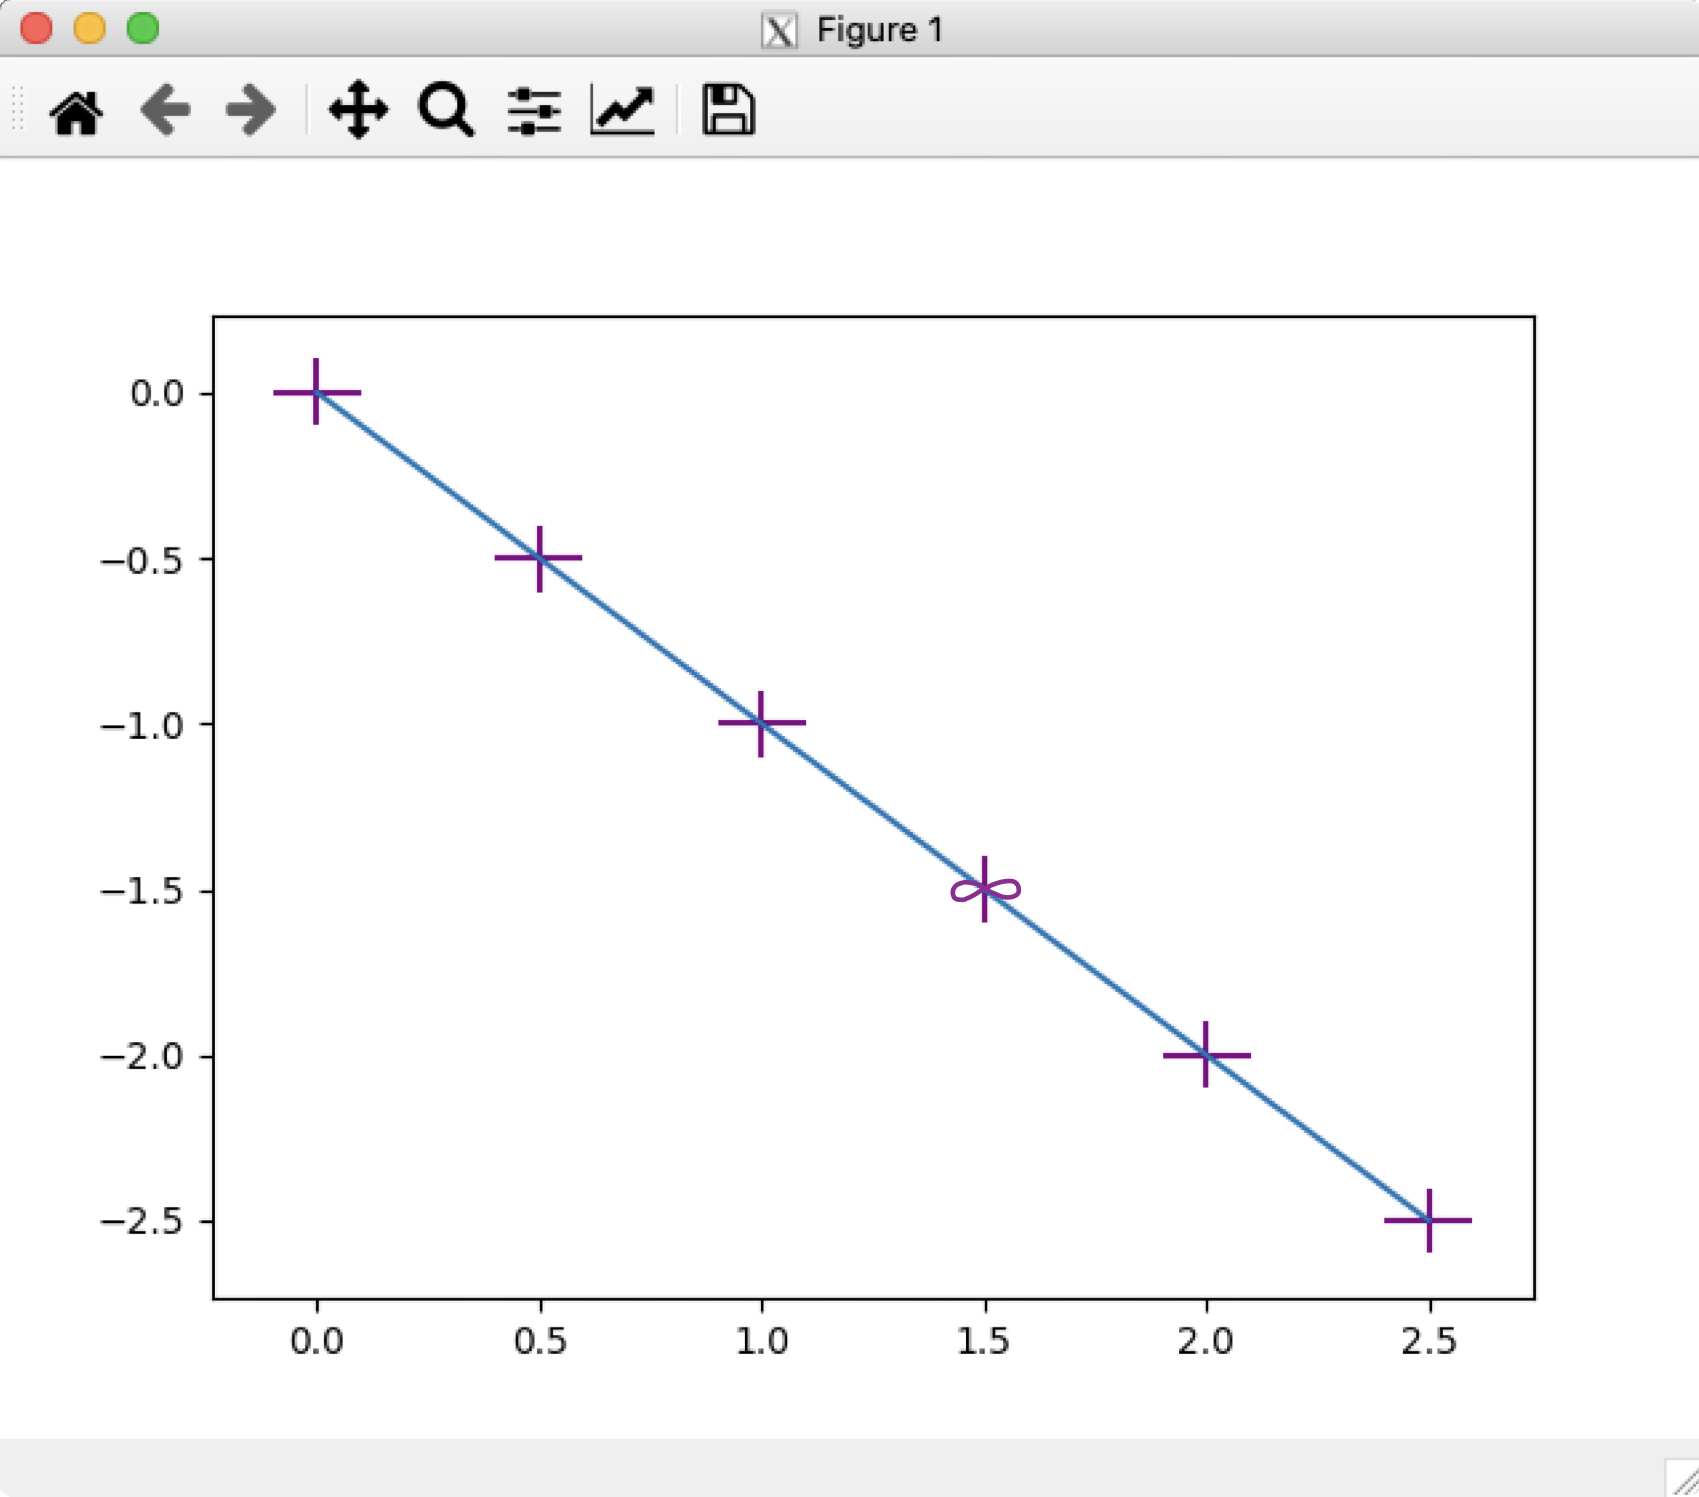
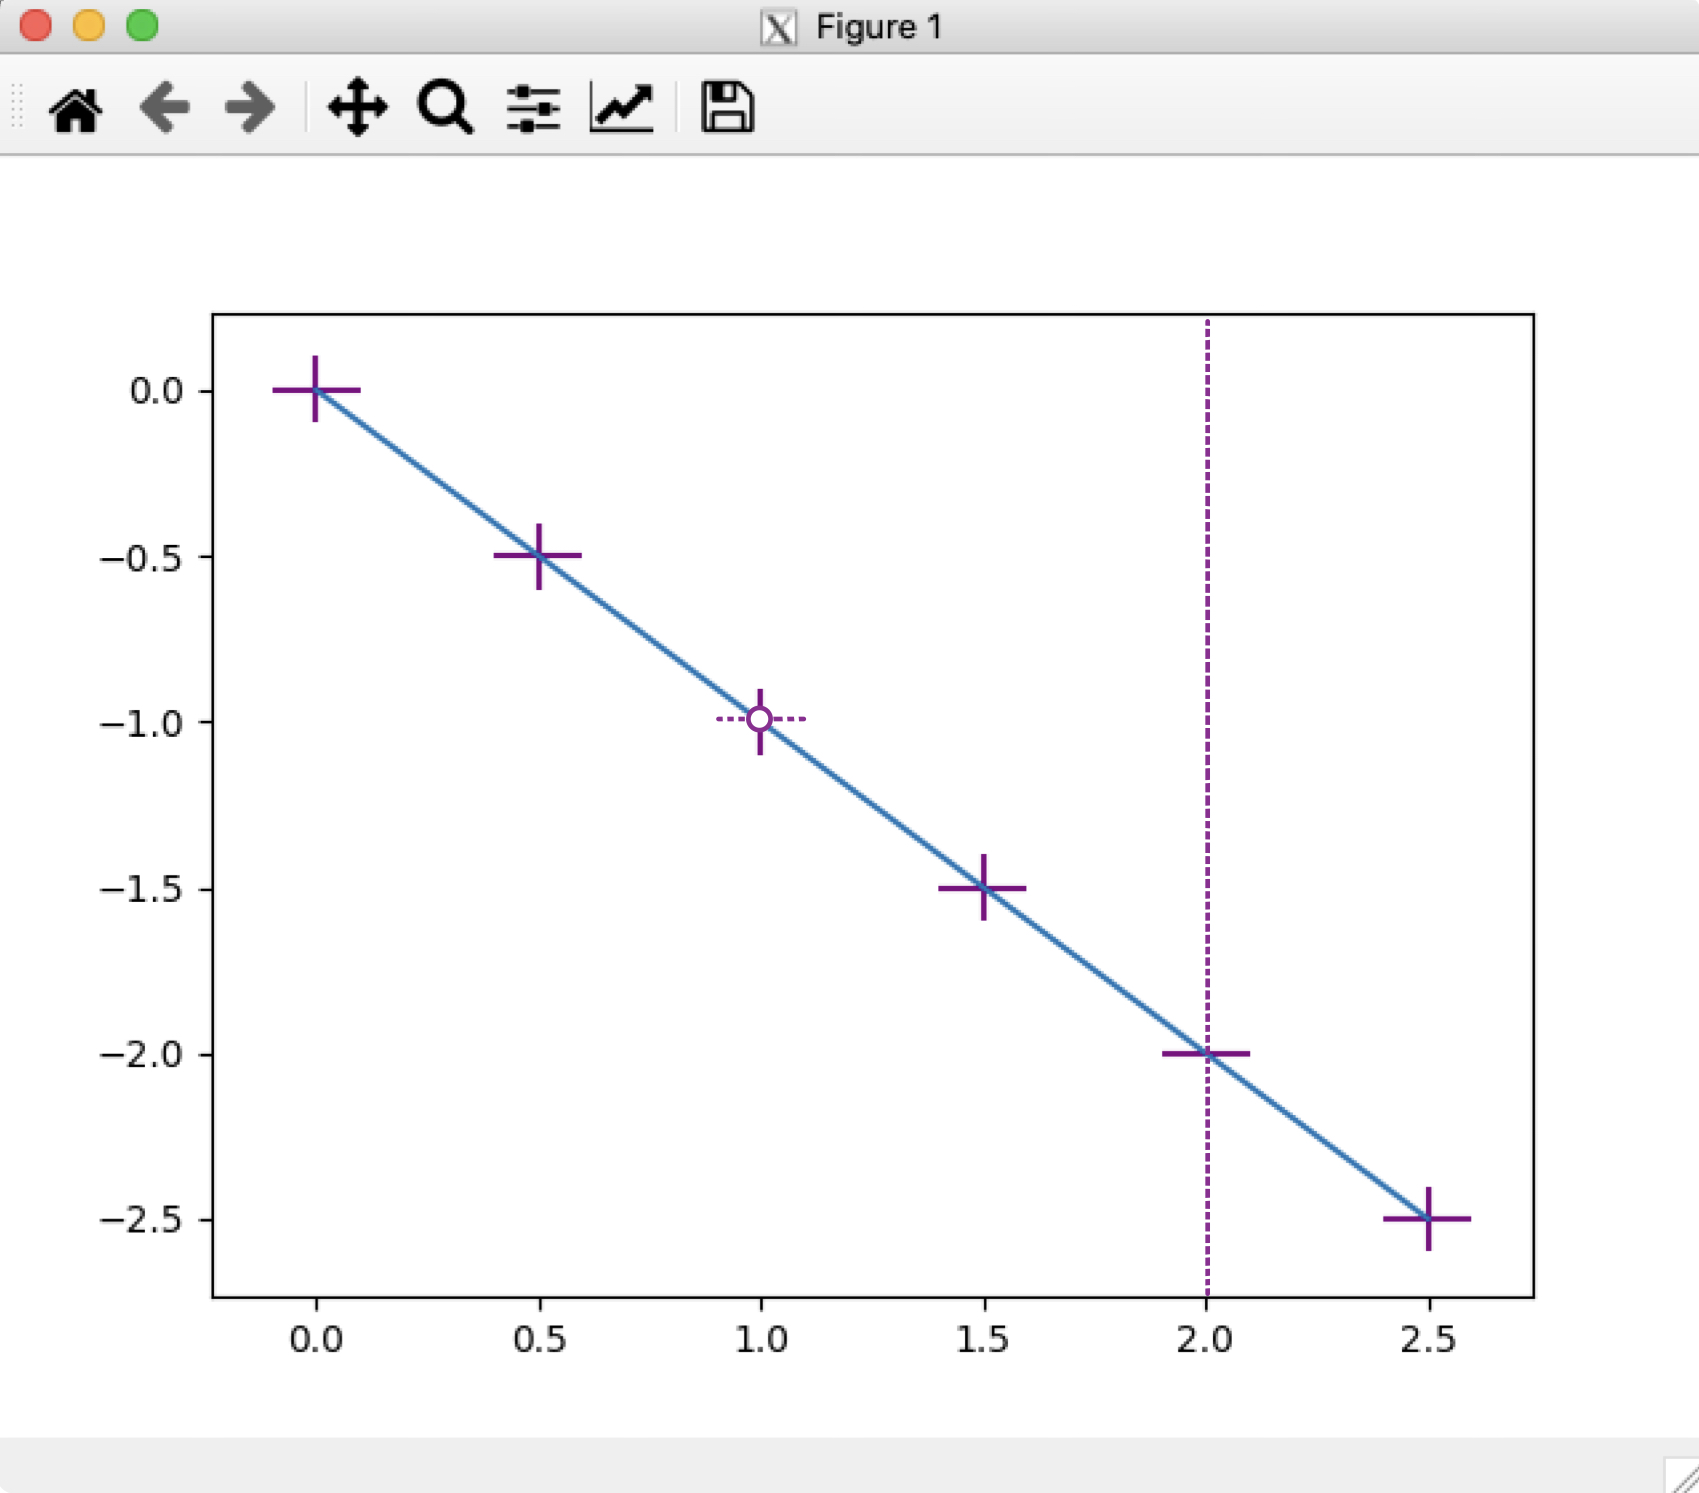
Added one more Acceptance Test for feature 7876

diff --git a/deliverable/3/7876_tests.md b/deliverable/3/7876_tests.md
@@ -36,8 +36,53 @@ The output should be a plot of a negative linear function with x range from 0 to
 
 ![uat_1](./img/7876_UAT1.png)
 
+## UAT 2 - Nan and inf in different data points default case
 
-## UAT 2 - Nan symbol and inf bar in different data points
+1. Import `matplotlib.pyplot` and `numpy` libraries at the very top of the python file. For convenience, use `import matplotlib as plt` and `import numpy as np`.
+2. Use `numpy` to initialize the the range of x. Use the `np.arange` method that will return an array of values given a start and end points, and step. For this test, we can make `x = np.arange(0, 3, 0.5)`. Make y represent the negative linear function `y = -x`.
+3. Make the bars for all x and y data points 0.1 by initializing two arrays of size 6 with values of 0.1. Name the arrays xerrors and yerros, use `np.array([0.1] * 6)`.
+4. Change the third x error to `nan` and the fifth y error to `inf`. Use `xerrors[2] = np.nan` and `yerrors[4] = np.inf`.
+5. Initialize a `Figure` using `plt.figure()`.
+6. Plot the error bars for x and y and color them purple. Make the `nan` and the `inf` errors be represented as the default case, so they will not be displayed on the plot. Use `plt.errorbar(x, y, xerr=xerrors, yerr=yerrors, ecolor='purple', nan_repr=None, inf_repr=None)`, or `plt.errorbar(x, y, xerr=xerrors, yerr=yerrors, ecolor='purple')`.
+7. Finally, write `plt.show()` to display the graph.
+
+```
+import matplotlib.pyplot as plt
+import numpy as np
+
+# Initialize the range of x points from 0 to 3 with
+# an step of 0.5, and make the function negative linear
+x = np.arange(0, 3, 0.5)
+y = -x
+
+# Make all the horizonal and vertical errors
+# for every point be 0.1
+xerrors = np.array([0.1] * 6)
+yerrors = np.array([0.1] * 6)
+
+# Change the third x error bar to be nan and
+# change the fifth y error bar to be inf
+xerrors[2] = np.nan
+yerrors[4] = np.inf
+
+# Initializes a figure
+plt.figure()
+
+# Plots error bars in the line and color them purple
+plt.errorbar(x, y, xerr=xerrors, yerr=yerrors, ecolor='purple', nan_repr=None, inf_repr=None)
+
+# Display the graph
+plt.show()
+
+```
+
+The output should be a plot of a negative linear function with x range from 0 to 3 and 0.5 step. Each data point should have two purple error bars, one horizontal and one vertical, of 0.1 lenght each. In the third point, only the `yerror` bar should be displayed. In the fifth point, only the `xerror` should be displayed.
+
+![uat_2](./img/7876_UAT2.png)
+
+
+
+## UAT 3 - Nan symbol and inf bar in different data points
 
 1. Import `matplotlib.pyplot` and `numpy` libraries at the very top of the python file. For convenience, use `import matplotlib as plt` and `import numpy as np`.
 2. Use `numpy` to initialize the the range of x. Use the `np.arange` method that will return an array of values given a start and end points, and step. For this test, we can make `x = np.arange(0, 3, 0.5)`. Make y represent the negative linear function `y = -x`.
@@ -79,10 +124,10 @@ plt.show()
 
 The output should be a plot of a negative linear function with x range from 0 to 3 and 0.5 step. Each data point should have two purple error bars, one horizontal and one vertical, of 0.1 lenght each. In the third point, the `xerror` should be a dotted line of leght 0.1 with a dot in the middle. In the fifth point, the `yerror` should be a dotted vertical line drawn across the figure.
 
-![uat_2](./img/7876_UAT2.png)
+![uat_3](./img/7876_UAT3.png)
 
 
-## UAT 3 - Inf symbol in a data point
+## UAT 4 - Inf symbol in a data point
 
 1. Import `matplotlib.pyplot` and `numpy` libraries at the very top of the python file. For convenience, use `import matplotlib as plt` and `import numpy as np`.
 2. Use `numpy` to initialize the the range of x. Use the `np.arange` method that will return an array of values given a start and end points, and step. For this test, we can make `x = np.arange(0, 3, 0.5)`. Make y represent the negative linear function `y = -x`.
@@ -122,9 +167,9 @@ plt.show()
 
 The output should be a plot of a negative linear function with x range from 0 to 3 and 0.5 step. Each data point should have two purple error bars, one horizontal and one vertical, of 0.1 lenght each. In the fourth point, the `xerror` should be an infinity symbol horizontally oriented.
 
-![uat_3](./img/7876_UAT3.png)
+![uat_4](./img/7876_UAT4.png)
 
-## UAT 4 - Nan and inf symbols in the same data point
+## UAT 5 - Nan and inf symbols in the same data point
 
 1. Import `matplotlib.pyplot` and `numpy` libraries at the very top of the python file. For convenience, use `import matplotlib as plt` and `import numpy as np`.
 2. Use `numpy` to initialize the the range of x. Use the `np.arange` method that will return an array of values given a start and end points, and step. For this test, we can make `x = np.arange(0, 3, 0.5)`. Make y represent the negative linear function `y = -x`.
@@ -166,9 +211,9 @@ plt.show()
 
 The output should be a plot of a negative linear function with x range from 0 to 3 and 0.5 step. Each data point should have two purple error bars, one horizontal and one vertical, of 0.1 lenght each. In the fourth point, the `xerror` should be a dotted line of leght 0.1 with a dot in the middle, and the `yerror` should be an infinity symbol horizontally oriented.
 
-![uat_4](./img/7876_UAT4.png)
+![uat_5](./img/7876_UAT5.png)
 
-## UAT 5 - Nan symbol and inf bar in the same data point
+## UAT 6 - Nan symbol and inf bar in the same data point
 
 1. Import `matplotlib.pyplot` and `numpy` libraries at the very top of the python file. For convenience, use `import matplotlib as plt` and `import numpy as np`.
 2. Use `numpy` to initialize the the range of x. Use the `np.arange` method that will return an array of values given a start and end points, and step. For this test, we can make `x = np.arange(0, 3, 0.5)`. Make y represent the negative linear function `y = -x`.
@@ -210,4 +255,4 @@ plt.show()
 
 The output should be a plot of a negative linear function with x range from 0 to 3 and 0.5 step. Each data point should have two purple error bars, one horizontal and one vertical, of 0.1 lenght each. In the fourth point, the `xerror` should be a dotted horizontal line drawn across the figure, and the `yerror` should be a dotted line of leght 0.1 with a dot in the middle.
 
-![uat_5](./img/7876_UAT5.png)
+![uat_6](./img/7876_UAT6.png)
